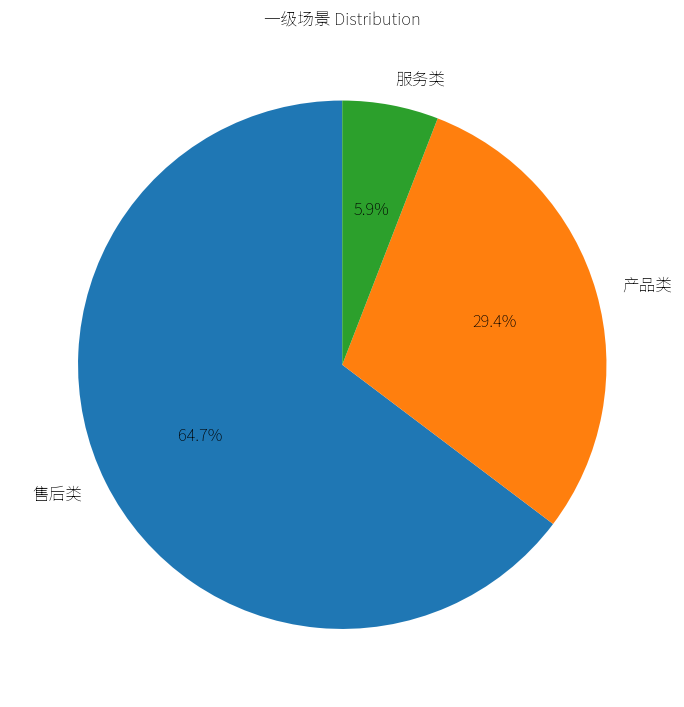
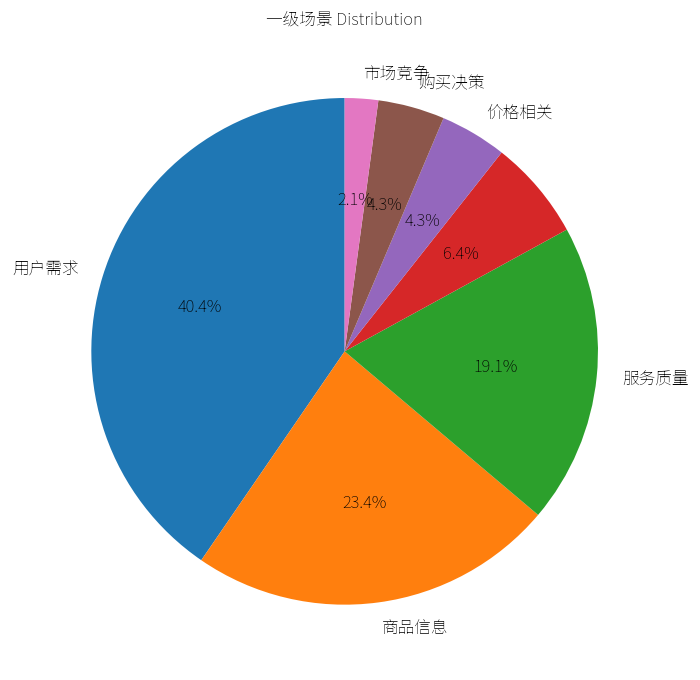
1.4.0
新增2个新分析项目

diff --git a/processing_modules/challenger.py b/processing_modules/challenger.py
@@ -2,27 +2,27 @@ import pandas as pd
 import ast
 
 def process_data(df: pd.DataFrame, column: str) -> pd.DataFrame:
-    """处理JSON格式的买家流失数据"""
+    """处理JSON格式的竞争数据"""
     
     def parse_json(json_str):
         """解析JSON字符串并提取关键字段"""
         try:
             data = ast.literal_eval(json_str)
             return {
-                '未购原因': data.get('未购原因', ''),
+                '竞争品牌': data.get('竞争品牌', ''),
+                '一级标签': data.get('一级标签', ''),
+                '二级标签': data.get('二级标签', ''),
                 '具体原因': data.get('具体原因', ''),
-                '细分原因': data.get('细分原因', ''),
-                '原因总结': data.get('原因总结', ''),
-                '是否是客服的原因': data.get('是否是客服的原因', ''),
+                '客服解决力': data.get('客服解决力', ''),
                 '建议客服接待策略': data.get('建议客服接待策略', '')
             }
         except:
             return {
-                '未购原因': '',
+                '竞争品牌': '',
+                '一级标签': '',
+                '二级标签': '',
                 '具体原因': '',
-                '细分原因': '',
-                '原因总结': '',
-                '是否是客服的原因': '',
+                '客服解决力': '',
                 '建议客服接待策略': ''
             }
 

diff --git a/processing_modules/recommand.py b/processing_modules/recommand.py
@@ -1,0 +1,32 @@
+import pandas as pd
+import ast
+
+def process_data(df: pd.DataFrame, column: str) -> pd.DataFrame:
+    """处理JSON格式的客服推荐分析数据"""
+    
+    def parse_json(json_str):
+        """解析JSON字符串并提取关键字段"""
+        try:
+            data = ast.literal_eval(json_str)
+            return {
+                '顾客情绪': data.get('顾客情绪', ''),
+                '一级场景': data.get('一级场景', ''),
+                '二级场景': data.get('二级场景', ''),
+                '具体原因': data.get('具体原因', ''),
+                '客服话术': data.get('客服话术', ''),
+                '建议采纳话术': data.get('建议采纳话术', '')
+            }
+        except:
+            return {
+                '顾客情绪': '',
+                '一级场景': '',
+                '二级场景': '',
+                '具体原因': '',
+                '客服话术': '',
+                '建议采纳话术': ''
+            }
+
+    # 解析JSON列并扩展为多个新列
+    json_data = df[column].apply(parse_json).apply(pd.Series)
+    df = pd.concat([df, json_data], axis=1)
+    return df

diff --git a/config.py b/config.py
@@ -29,5 +29,17 @@ SCRIPT_CONFIG = {
         "allowed_columns": ["doubao-pro-32k","doubao-1.5-pro-32k", "deepseek-r1"],
         "output_fields": ['未购原因', '具体原因', '细分原因', '原因总结', '是否是客服的原因','建议客服接待策略'],
         "analysis_data": ['未购原因', '具体原因', '细分原因', '是否是客服的原因']
+    },
+    "竞争对比分析":{
+        "module": "challenger",
+        "allowed_columns": ["doubao-pro-32k","doubao-1.5-pro-32k", "deepseek-r1"],
+        "output_fields": ['竞争品牌', '一级标签', '二级标签', '具体原因', '客服解决力','建议客服接待策略'],
+        "analysis_data": ['竞争品牌', '一级标签', '二级标签', '客服解决力'] 
+    },
+    "客服商品推荐分析":{
+        "module": "recommand",
+        "allowed_columns": ["doubao-pro-32k","doubao-1.5-pro-32k", "deepseek-r1"],
+        "output_fields": ['顾客情绪', '一级场景', '二级场景', '具体原因', '客服话术','建议采纳话术'],
+        "analysis_data": ['顾客情绪', '一级场景', '二级场景', '客服话术'] 
     }
 }

diff --git a/app.py b/app.py
@@ -46,7 +46,6 @@ if uploaded_file:
     # 执行数据分析可视化
     from processing_modules.analyzer import analyze_and_plot
     if 'output_fields' in config and len(config['output_fields']) > 0:
-        st.write("当前分析配置：", config)
         if 'analysis_data' in config:
             analyze_and_plot(df, config['analysis_data'])
         else:
